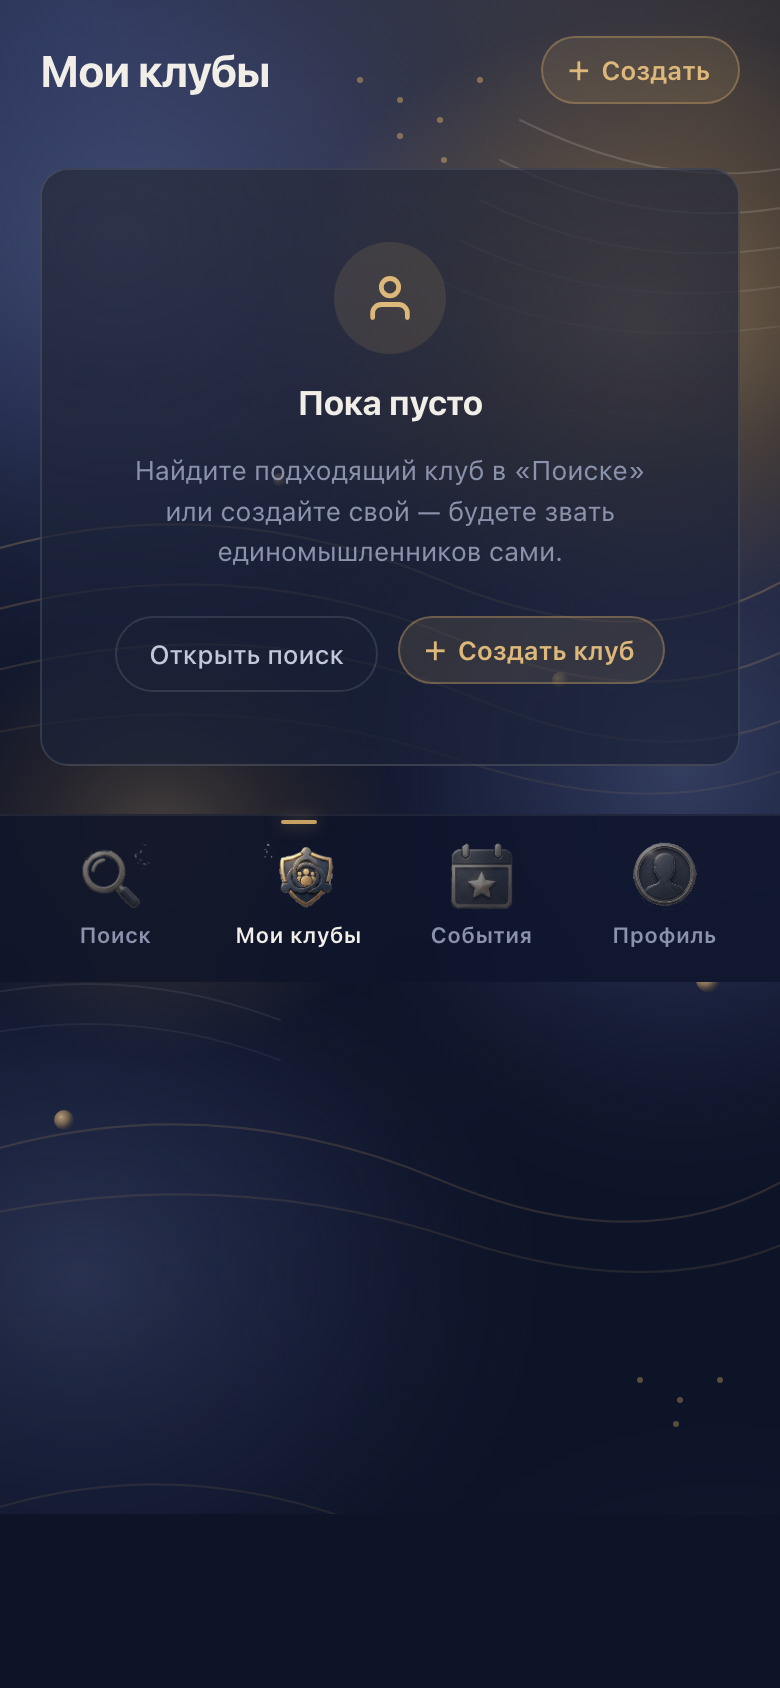
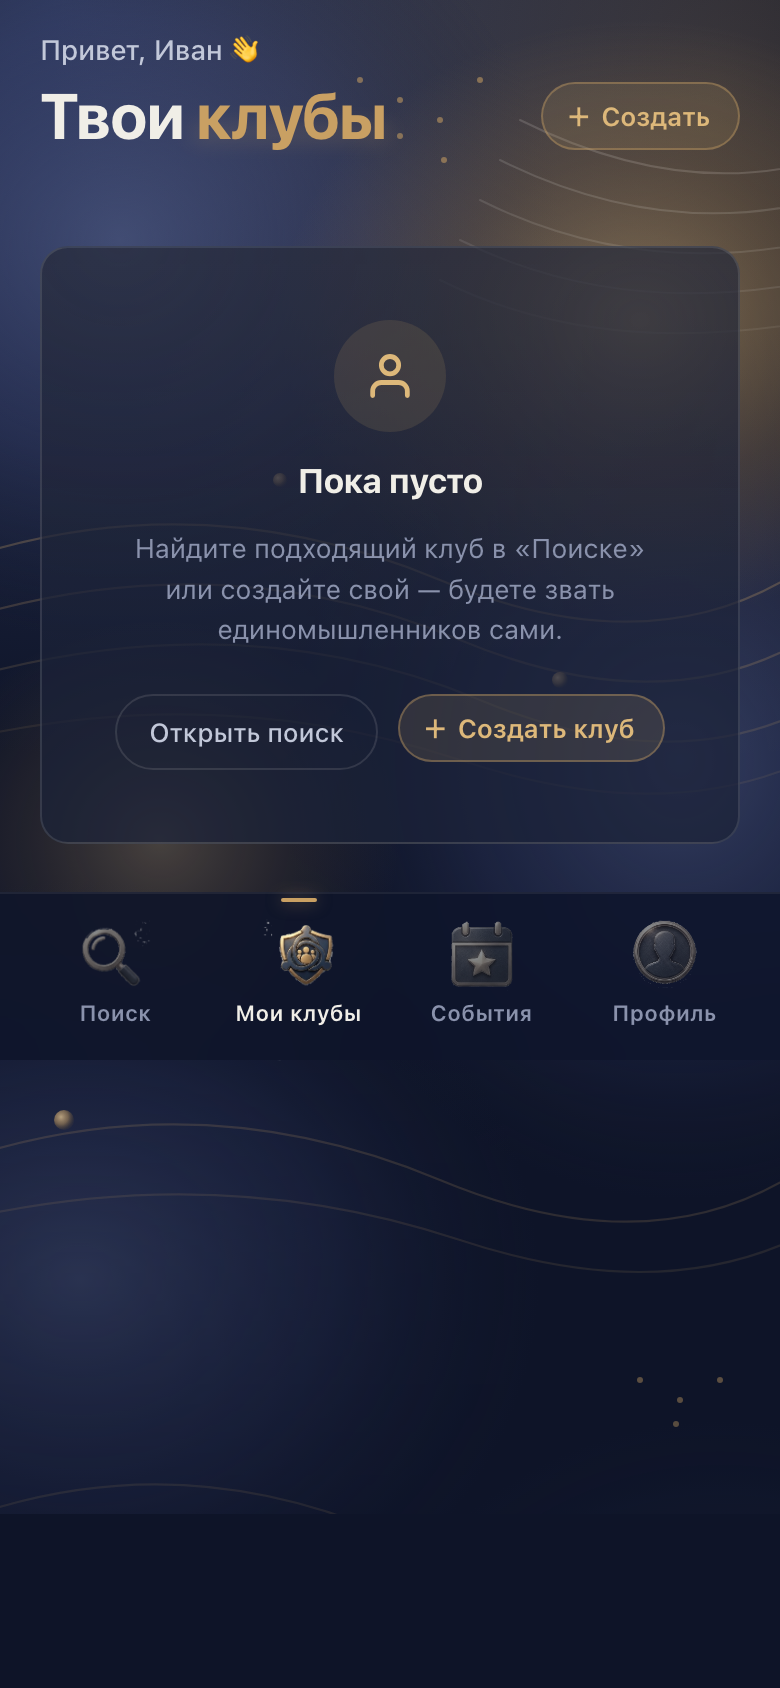
style(frontend): расширил hero на MyClubsPage (greeting + brass-accent + sub)
Балансировка визуальной массы верхней зоны под Discovery hero. Раньше
header-row занимал ~60px, теперь ~150px:

- Greeting line: «Привет, {firstName} 👋» (14px ink-2)
- Hero h1: «Твои [brass]клубы[/brass]» 32px с brass-accent + blur подсветкой
  на слове «клубы» (тот же паттерн что «Найди свой клуб» на Discovery)
- Sub-line: «N клубов · M заявок» с Russian pluralization (помощник pluralRu)
- «+ Создать» pill переехал в hero-row справа от h1
- Удалил неиспользуемые .mc-header-row / .mc-eyebrow

Empty state остаётся компактным — sub-line не рендерится при 0 клубов.

diff --git a/frontend/src/styles/brand-theme.css b/frontend/src/styles/brand-theme.css
@@ -1227,18 +1227,54 @@ html, body { background: #0E1428; min-height: 100vh; }
 /* MyClubsPage (mc-*)                                     */
 /* ====================================================== */
 
-.mc-header-row {
+/* Hero — greeting + h1 with brass accent + summary sub-line.
+   Mass-balances against Discovery hero (logo + h1 + search + chips). */
+.mc-hero {
+  padding: 16px 20px 24px;
+}
+.mc-hero .greeting {
+  font-size: 14px;
+  font-weight: 500;
+  color: var(--brand-ink-2);
+  letter-spacing: -0.004em;
+  margin-bottom: 6px;
+}
+.mc-hero-row {
   display: flex;
   align-items: center;
   justify-content: space-between;
-  padding: 18px 20px 8px;
   gap: 12px;
 }
-.mc-eyebrow {
-  font-size: 22px;
+.mc-hero-row h1 {
+  font-size: 32px;
   font-weight: 700;
-  letter-spacing: -0.018em;
+  letter-spacing: -0.022em;
+  line-height: 1.08;
   color: var(--brand-ink);
+  margin: 0;
+}
+.mc-hero-row h1 .accent {
+  color: var(--brand-brass);
+  position: relative;
+  display: inline-block;
+}
+.mc-hero-row h1 .accent::after {
+  content: '';
+  position: absolute;
+  left: -2px; right: -2px;
+  bottom: 4px;
+  height: 9px;
+  background: var(--brand-brass);
+  opacity: 0.16;
+  border-radius: 2px;
+  z-index: -1;
+  filter: blur(5px);
+}
+.mc-hero .sub {
+  font-size: 14px;
+  color: var(--brand-ink-3);
+  margin-top: 10px;
+  letter-spacing: -0.003em;
 }
 .mc-create-btn {
   flex-shrink: 0;

diff --git a/docs/design/myclubs-redesign/mockups/_shared.css b/docs/design/myclubs-redesign/mockups/_shared.css
@@ -848,18 +848,53 @@ body {
 /* MyClubsPage (mc-*)                                     */
 /* ====================================================== */
 
-.mc-header-row {
+/* Hero — greeting + h1 with brass accent + summary sub-line */
+.mc-hero {
+  padding: 16px 20px 24px;
+}
+.mc-hero .greeting {
+  font-size: 14px;
+  font-weight: 500;
+  color: var(--brand-ink-2);
+  letter-spacing: -0.004em;
+  margin-bottom: 6px;
+}
+.mc-hero-row {
   display: flex;
   align-items: center;
   justify-content: space-between;
-  padding: 18px 20px 8px;
   gap: 12px;
 }
-.mc-eyebrow {
-  font-size: 22px;
+.mc-hero-row h1 {
+  font-size: 32px;
   font-weight: 700;
-  letter-spacing: -0.018em;
+  letter-spacing: -0.022em;
+  line-height: 1.08;
   color: var(--brand-ink);
+  margin: 0;
+}
+.mc-hero-row h1 .accent {
+  color: var(--brand-brass);
+  position: relative;
+  display: inline-block;
+}
+.mc-hero-row h1 .accent::after {
+  content: '';
+  position: absolute;
+  left: -2px; right: -2px;
+  bottom: 4px;
+  height: 9px;
+  background: var(--brand-brass);
+  opacity: 0.16;
+  border-radius: 2px;
+  z-index: -1;
+  filter: blur(5px);
+}
+.mc-hero .sub {
+  font-size: 14px;
+  color: var(--brand-ink-3);
+  margin-top: 10px;
+  letter-spacing: -0.003em;
 }
 .mc-create-btn {
   flex-shrink: 0;

diff --git a/frontend/src/pages/MyClubsPage.tsx b/frontend/src/pages/MyClubsPage.tsx
@@ -39,6 +39,22 @@ function formatApplicationDate(iso: string): string {
   return new Date(iso).toLocaleDateString('ru-RU', { day: 'numeric', month: 'long' });
 }
 
+/** Russian plural form picker: forms = [one, few, many] */
+function pluralRu(n: number, forms: [string, string, string]): string {
+  const mod10 = n % 10;
+  const mod100 = n % 100;
+  if (mod10 === 1 && mod100 !== 11) return forms[0];
+  if (mod10 >= 2 && mod10 <= 4 && (mod100 < 10 || mod100 >= 20)) return forms[1];
+  return forms[2];
+}
+
+function summaryLine(clubs: number, apps: number): string {
+  const parts: string[] = [];
+  if (clubs > 0) parts.push(`${clubs} ${pluralRu(clubs, ['клуб', 'клуба', 'клубов'])}`);
+  if (apps > 0) parts.push(`${apps} ${pluralRu(apps, ['заявка', 'заявки', 'заявок'])}`);
+  return parts.join(' · ');
+}
+
 const PEOPLE_ICON = (
   <svg width="26" height="26" viewBox="0 0 24 24" fill="none" stroke="currentColor" strokeWidth="2.2" strokeLinecap="round" strokeLinejoin="round" aria-hidden="true">
     <path d="M20 21v-2a4 4 0 0 0-4-4H8a4 4 0 0 0-4 4v2" />
@@ -194,14 +210,24 @@ export const MyClubsPage: FC = () => {
     <div className="brand-page">
       <BrandBackdrop />
 
-      {/* Hero row */}
-      <div className="mc-header-row">
-        <h1 className="mc-eyebrow" style={{ margin: 0 }}>Мои клубы</h1>
-        <button type="button" className="mc-create-btn" onClick={openCreate}>
-          <span className="plus">+</span>
-          Создать
-        </button>
-      </div>
+      {/* Hero */}
+      <header className="mc-hero">
+        {user?.firstName && (
+          <div className="greeting">Привет, {user.firstName} <span aria-hidden="true">👋</span></div>
+        )}
+        <div className="mc-hero-row">
+          <h1>
+            Твои <span className="accent">клубы</span>
+          </h1>
+          <button type="button" className="mc-create-btn" onClick={openCreate}>
+            <span className="plus">+</span>
+            Создать
+          </button>
+        </div>
+        {(myClubs.length > 0 || applications.length > 0) && (
+          <div className="sub">{summaryLine(myClubs.length, applications.length)}</div>
+        )}
+      </header>
 
       {/* Loading spinner */}
       {loading && (

diff --git a/docs/design/myclubs-redesign/mockups/01-myclubs-populated.html b/docs/design/myclubs-redesign/mockups/01-myclubs-populated.html
@@ -20,14 +20,18 @@
     <img src="assets/brand-backdrop.svg" alt="" aria-hidden="true">
   </div>
 
-  <!-- Top hero row -->
-  <div class="mc-header-row">
-    <h1 class="mc-eyebrow" style="margin: 0;">Мои клубы</h1>
-    <button class="mc-create-btn">
-      <span class="plus">+</span>
-      Создать
-    </button>
-  </div>
+  <!-- Hero: greeting + h1 (brass accent) + summary sub-line + create pill -->
+  <header class="mc-hero">
+    <div class="greeting">Привет, Иван <span aria-hidden="true">👋</span></div>
+    <div class="mc-hero-row">
+      <h1>Твои <span class="accent">клубы</span></h1>
+      <button class="mc-create-btn">
+        <span class="plus">+</span>
+        Создать
+      </button>
+    </div>
+    <div class="sub">3 клуба · 1 заявка</div>
+  </header>
 
   <!-- Active clubs section -->
   <div class="mc-section-label">Активные <span class="count">· 3</span></div>

diff --git a/docs/design/myclubs-redesign/mockups/02-myclubs-empty.html b/docs/design/myclubs-redesign/mockups/02-myclubs-empty.html
@@ -20,14 +20,17 @@
     <img src="assets/brand-backdrop.svg" alt="" aria-hidden="true">
   </div>
 
-  <!-- Top hero row -->
-  <div class="mc-header-row">
-    <h1 class="mc-eyebrow" style="margin: 0;">Мои клубы</h1>
-    <button class="mc-create-btn">
-      <span class="plus">+</span>
-      Создать
-    </button>
-  </div>
+  <!-- Hero -->
+  <header class="mc-hero">
+    <div class="greeting">Привет, Иван <span aria-hidden="true">👋</span></div>
+    <div class="mc-hero-row">
+      <h1>Твои <span class="accent">клубы</span></h1>
+      <button class="mc-create-btn">
+        <span class="plus">+</span>
+        Создать
+      </button>
+    </div>
+  </header>
 
   <!-- Empty state card -->
   <div class="mc-empty">